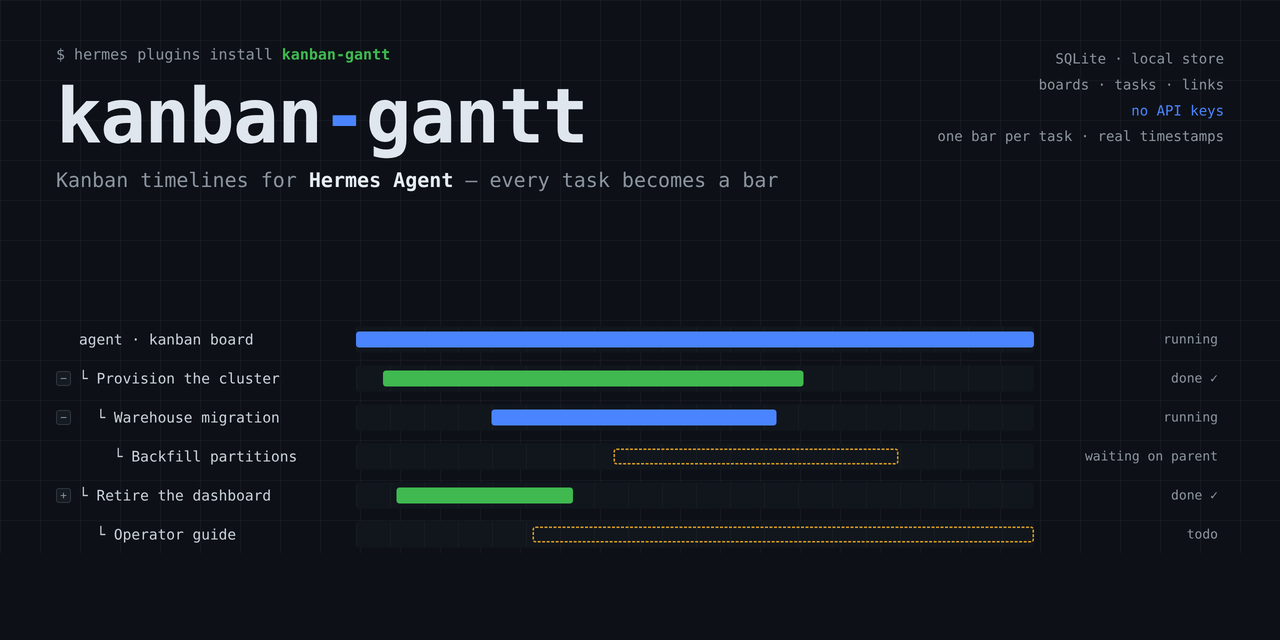
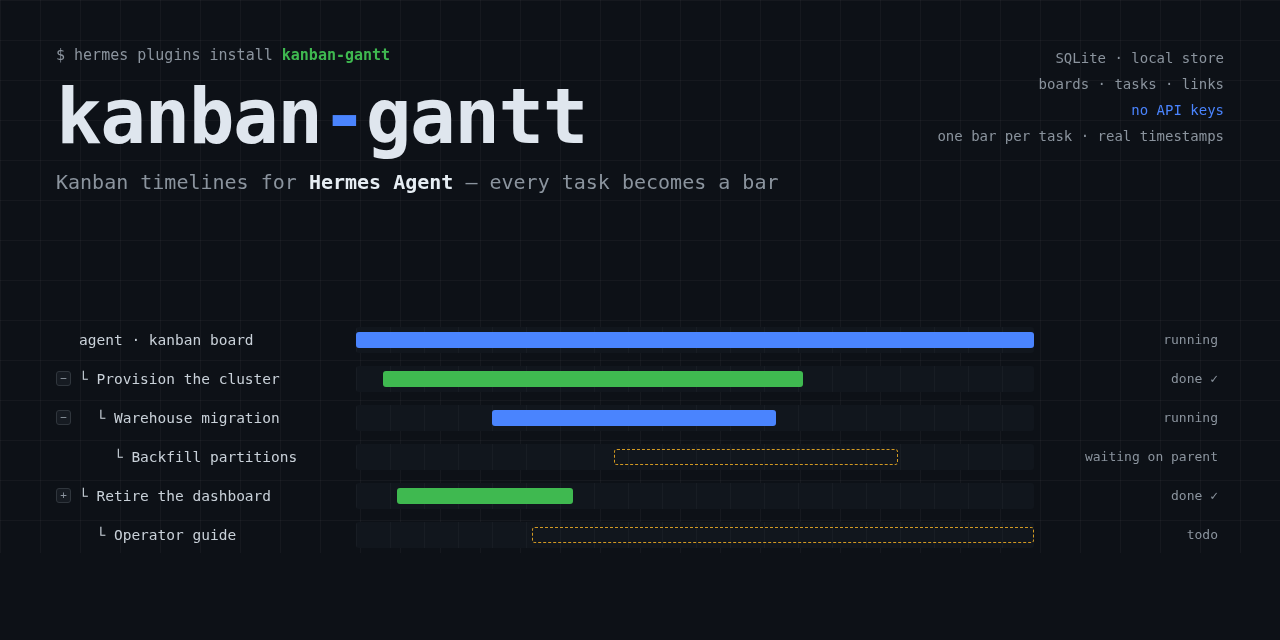
chore(release): 1.6.1
Everything accumulated since 1.6.0, told as what a reader gains rather than as the commits that
produced it: the paperclip and its dedicated column, the on-demand file list with a type-aware
preview, the "only tasks with attachments" filter, keyboard navigation of the rows and of a task's
files, click-to-act on a file name, priority in both detail views, and the modal's right-hand column
holding the facts while the body is left for reading.

No Fixes section: nothing here corrects the released 1.6.0 — the bugs found along the way were
introduced while building this version, which is exactly what that section is not for.

diff --git a/CHANGELOG.md b/CHANGELOG.md
@@ -1,5 +1,40 @@
 # Changelog
 
+## 1.6.1 — attachments on the rows, a filter to find them, and a detail that reads
+
+**A task with files says so on the board.** A paperclip sits beside the assignee on the timeline,
+and in a dedicated narrow column at the end of the table in list view, on the tasks that have
+attachments and nowhere else. Opening it lists the files with the two things one does with a file —
+look at it, or save it. The board's payload carries a count per task, never the filenames: the list
+is fetched when the paperclip is opened, so listing a board costs the same whether its tasks hold
+three attachments or three thousand.
+
+**The preview reads the file's type.** Markdown through the app's own renderer, plain text as text,
+images and PDFs rendered, HTML in a sandboxed frame — an attachment is user-supplied text and must
+not run scripts. Anything else stays download-only rather than pretending. The bytes never ride with
+the board payload: they come from the plugin's own content route, which runs on the gateway that
+owns the board, which is why a remote gateway needs no proxy.
+
+**A filter finds the tasks that have files** — "only tasks with attachments", off by default, in the
+funnel menu beside the status and assignee filters, and composed with them.
+
+**The keyboard walks the rows.** With the detail docked, ↑/↓ move the selection one row down or up
+in the displayed order and open that task, keeping the focus on the row so the next press continues
+from there. Inside the preview, ←/→ walk a task's files, wrapping, and a task with a single file
+shows no navigation at all.
+
+**Clicking a file name acts.** A name whose type can be previewed opens the preview; a name that
+cannot is a download, with a tooltip that says so instead of promising a preview that cannot happen.
+
+**The detail reads like a document.** In the modal, the right-hand column carries the facts —
+status, assignee, **priority**, workspace, dates, the attachments as a real section with their eye
+and their download, and the parent and child links. The body is left for reading: description,
+result, latest summary, comments. Priority was absent from both views before, and is drawn the way
+the official plugin draws it: an upward arrow and the number in amber.
+
+**An empty relation section is not drawn**: "no children" on a leaf task, "no parents" on a root
+one, were blocks that had nothing to say.
+
 ## 1.6.0 — attachments on the board, a timeline you can steer, three languages
 
 **Attachments reach the board itself.** A task with files carries a paperclip next to its
